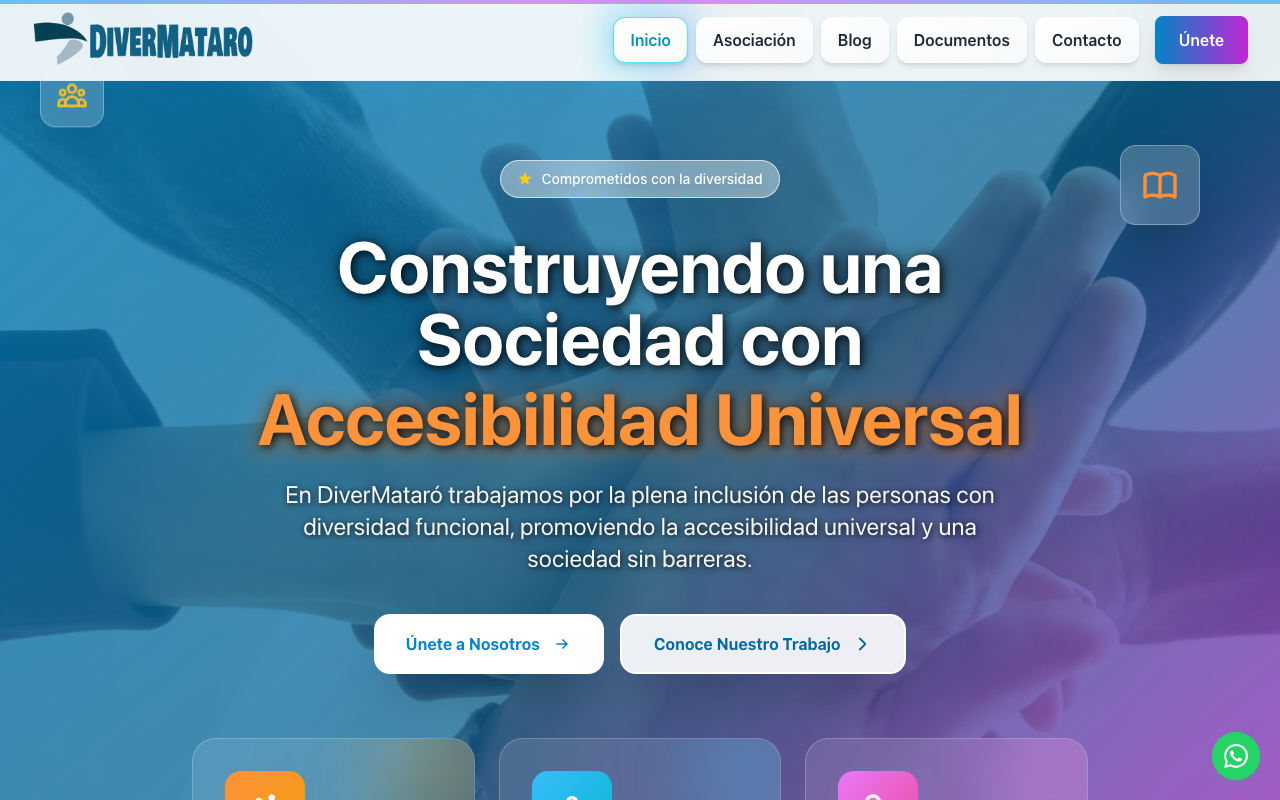
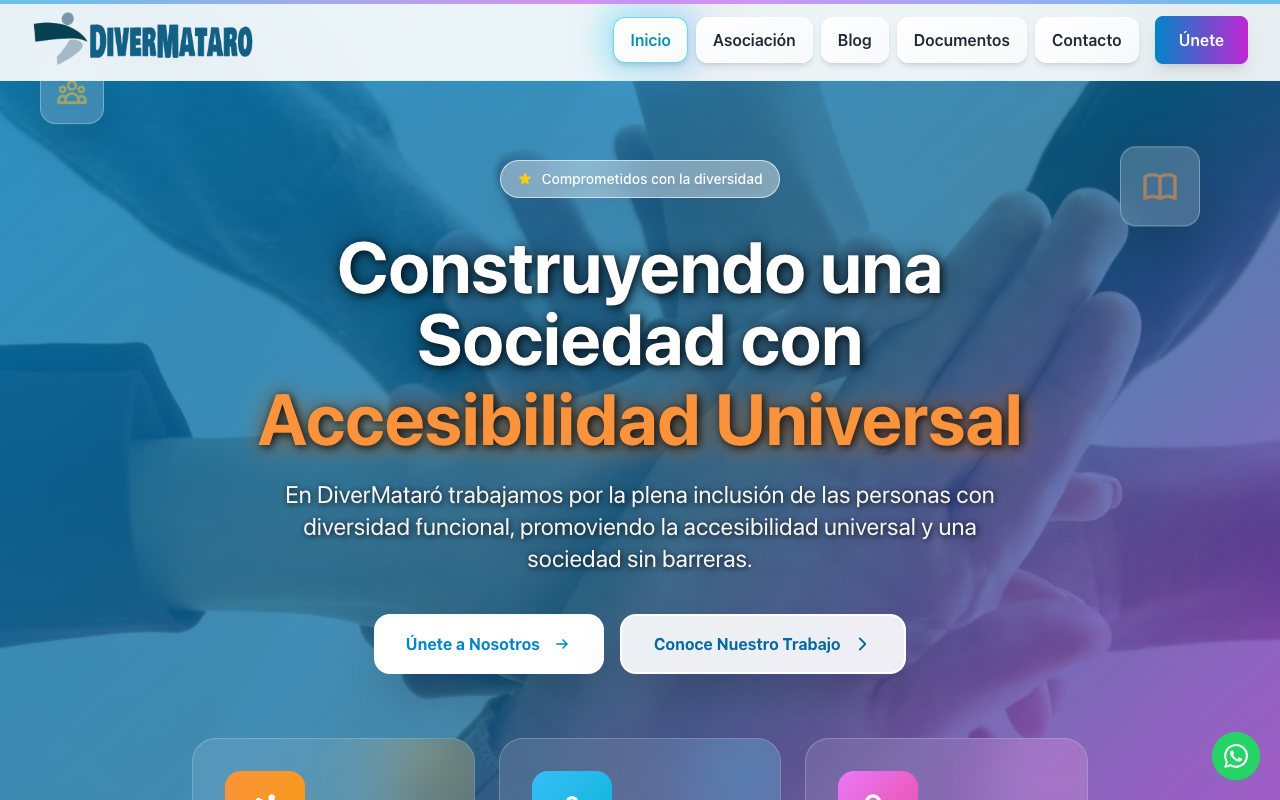
feat(proyectos): amparomedium.com y alamia.es como franja de «Mi estudio»
- Nuevo proyecto de cliente: amparomedium.com (Next.js en Vercel).
- Proyectos con kind client|own: los 4 de clientes en la cuadrícula 2×2 y
  alamia.es (negocio propio) en una franja aparte debajo, con «Ver tarifas».
  En móvil la franja es compacta (sin captura).
- La terminal viva cuenta las 5 webs;  lista clientes + estudio.
- Textos de perfil, servicios y proyectos validados por el usuario.

diff --git a/src/data/projects.ts b/src/data/projects.ts
@@ -1,12 +1,13 @@
-// Proyectos reales en producción. `summary`: BORRADOR, a validar por el usuario.
+// Proyectos reales en producción (textos validados por el usuario el 2026-09-18).
 export interface Project {
   slug: string;
   name: string;
   url: string;
   summary: string;
   tags: string[];
-  featured: boolean;
-  /** Etiqueta destacada en la tarjeta (p. ej. 'Mi estudio' para alamia.es). */
+  /** 'client': proyecto para un cliente (cuadrícula); 'own': negocio propio (franja aparte). */
+  kind: 'client' | 'own';
+  /** Etiqueta destacada (p. ej. 'Mi estudio' para alamia.es). */
   label?: string;
 }
 
@@ -18,7 +19,7 @@ export const projects: Project[] = [
     summary:
       'Asociación de Vida Independiente de Andalucía: web migrada desde WordPress, más rápida y sin mantenimiento de plugins.',
     tags: ['Astro', 'Workers', 'R2', 'Turnstile'],
-    featured: true,
+    kind: 'client',
   },
   {
     slug: 'divermataro',
@@ -27,7 +28,7 @@ export const projects: Project[] = [
     summary:
       'Asociación por la accesibilidad universal en Mataró: web accesible con blog y documentos gestionables.',
     tags: ['Astro', 'D1', 'Workers'],
-    featured: true,
+    kind: 'client',
   },
   {
     slug: 'irenepuigdemont',
@@ -36,7 +37,16 @@ export const projects: Project[] = [
     summary:
       'Nutricionista especializada en autismo: web en tres idiomas con reserva de consultas online.',
     tags: ['Astro', 'D1', 'KV'],
-    featured: true,
+    kind: 'client',
+  },
+  {
+    slug: 'amparomedium',
+    name: 'amparomedium.com',
+    url: 'https://amparomedium.com',
+    summary:
+      'Guía espiritual: web con reserva de sesiones, área de clientes e inscripción a cursos.',
+    tags: ['Next.js', 'React', 'Vercel'],
+    kind: 'client',
   },
   {
     slug: 'alamia',
@@ -45,9 +55,16 @@ export const projects: Project[] = [
     summary:
       'Mi estudio para pequeños negocios: webs y mantenimiento con precio cerrado y contratación online.',
     tags: ['Astro', 'Workers', 'Pagos online'],
-    featured: true,
+    kind: 'own',
     label: 'Mi estudio',
   },
 ];
 
-export const featuredProjects = (): Project[] => projects.filter(p => p.featured);
+export const clientProjects = (): Project[] => projects.filter(p => p.kind === 'client');
+
+/** El estudio propio (alamia.es): se muestra aparte, como franja bajo los clientes. */
+export const ownStudio = (): Project => {
+  const studio = projects.find(p => p.kind === 'own');
+  if (!studio) throw new Error('Falta el estudio propio en src/data/projects.ts');
+  return studio;
+};

diff --git a/src/lib/terminal/contentCommands.ts b/src/lib/terminal/contentCommands.ts
@@ -1,21 +1,27 @@
 import { profile } from '../../data/profile';
-import { featuredProjects } from '../../data/projects';
+import { clientProjects, ownStudio } from '../../data/projects';
 import { ALAMIA_URL, services } from '../../data/services';
 import type { CommandSpec } from './registry';
 import { escapeHtml, safeUrl } from './sanitize';
 
 // Comandos que muestran el contenido de la página (src/data) dentro de la terminal.
 
-const projectsHtml = (): string =>
-  `<div class="section-title">Webs en producción</div><ul class="grid gap-2">${featuredProjects()
+const projectsHtml = (): string => {
+  const studio = ownStudio();
+  return `<div class="section-title">Webs en producción</div><ul class="grid gap-2">${clientProjects()
     .map(
       p => `<li class="rounded-xl border border-terminal-dim p-3">
-        ${p.label ? `<span class="text-accent text-xs">${escapeHtml(p.label)} · </span>` : ''}
         <a href="${safeUrl(p.url)}" target="_blank" rel="noopener" class="text-terminal-bright font-semibold">${escapeHtml(p.name)} ↗</a>
         <div class="text-terminal-dim text-sm">${escapeHtml(p.summary)}</div>
       </li>`
     )
-    .join('')}</ul>`;
+    .join('')}</ul>
+    <div class="mt-3 rounded-xl border border-dashed border-terminal-dim p-3">
+      <span class="text-accent text-xs">${escapeHtml(studio.label ?? '')}</span>
+      <a href="${safeUrl(studio.url)}" target="_blank" rel="noopener" class="text-terminal-bright ml-1 font-semibold">${escapeHtml(studio.name)} ↗</a>
+      <div class="text-terminal-dim text-sm">${escapeHtml(studio.summary)}</div>
+    </div>`;
+};
 
 const aboutHtml = (): string =>
   `<div class="section-title">Hola, soy ${escapeHtml(profile.name)}</div>${profile.about

diff --git a/src/data/data.test.ts b/src/data/data.test.ts
@@ -1,6 +1,6 @@
 import { describe, expect, it } from 'vitest';
 import { profile } from './profile';
-import { featuredProjects, projects } from './projects';
+import { clientProjects, ownStudio, projects } from './projects';
 import { ALAMIA_URL, services } from './services';
 
 describe('datos del sitio', () => {
@@ -10,12 +10,12 @@ describe('datos del sitio', () => {
     for (const p of projects) expect(p.url).toMatch(/^https:\/\//);
   });
 
-  it('los destacados son las 4 webs reales de la spec', () => {
-    expect(featuredProjects().map(p => p.slug)).toEqual([
+  it('los proyectos de clientes son las 4 webs reales', () => {
+    expect(clientProjects().map(p => p.slug)).toEqual([
       'viandalucia',
       'divermataro',
       'irenepuigdemont',
-      'alamia',
+      'amparomedium',
     ]);
   });
 
@@ -30,8 +30,10 @@ describe('datos del sitio', () => {
     expect(services.at(-1)?.price).toBe('A medida');
   });
 
-  it('alamia.es se presenta como el estudio propio', () => {
-    expect(projects.find(p => p.slug === 'alamia')?.label).toBe('Mi estudio');
+  it('alamia.es es el estudio propio y va aparte de los clientes', () => {
+    expect(ownStudio().slug).toBe('alamia');
+    expect(ownStudio().label).toBe('Mi estudio');
+    expect(clientProjects().some(p => p.kind === 'own')).toBe(false);
   });
 
   it('el perfil tiene email y GitHub válidos', () => {

diff --git a/e2e/site.spec.ts b/e2e/site.spec.ts
@@ -33,7 +33,10 @@ test.describe('secciones', () => {
       await expect(page.locator(`#${id}`)).toBeAttached();
     }
     await expect(page.locator('#proyectos li')).toHaveCount(4);
-    await expect(page.locator('#proyectos')).toContainText('Mi estudio');
+    await expect(page.locator('#proyectos li')).toContainText(['amparomedium.com']);
+    const studio = page.getByRole('complementary', { name: 'Mi estudio' });
+    await expect(studio).toContainText('alamia.es');
+    await expect(page.locator('#proyectos li').filter({ hasText: 'alamia.es' })).toHaveCount(0);
     await page.getByRole('link', { name: 'Hablemos' }).click();
     await expect(page.locator('#contacto form')).toBeInViewport();
     await expect(page.locator('#terminal-sheet')).toBeHidden();
@@ -49,7 +52,8 @@ test.describe('secciones', () => {
 
   test('las capturas de los proyectos cargan', async ({ page }) => {
     await page.goto('/');
-    const imgs = page.locator('#proyectos img');
+    // La captura de la franja del estudio solo se muestra desde sm (en móvil va oculta).
+    const imgs = page.locator('#proyectos li img');
     for (const img of await imgs.all()) {
       await img.scrollIntoViewIfNeeded();
       await expect(img).toHaveJSProperty('complete', true);

diff --git a/src/data/profile.ts b/src/data/profile.ts
@@ -1,4 +1,4 @@
-// Contenido de «Sobre mí». BORRADOR: el usuario debe validar los textos antes de la release.
+// Contenido de «Sobre mí» (validado por el usuario el 2026-09-18).
 export interface Profile {
   name: string;
   role: string;
